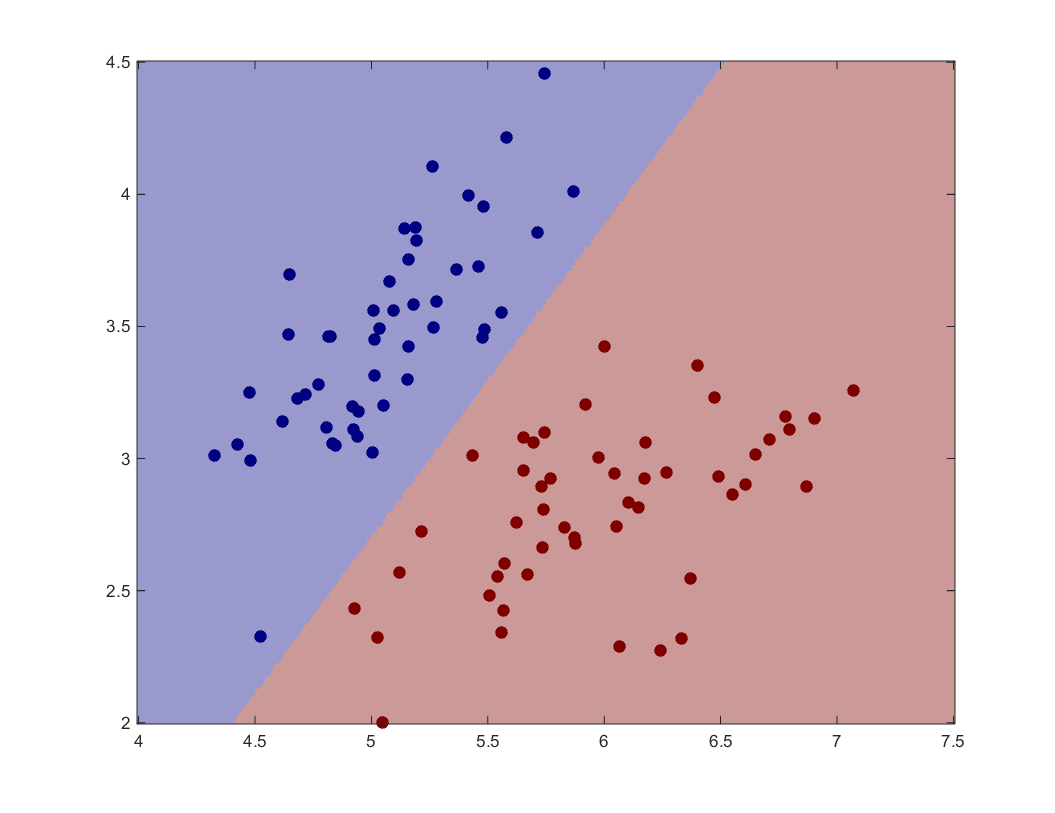
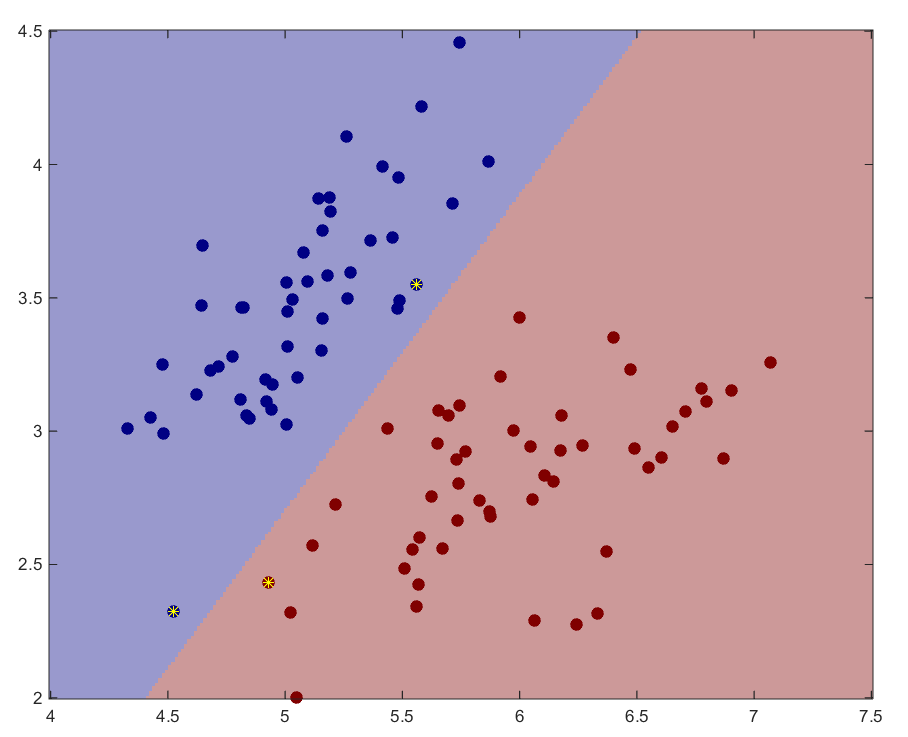
more of prob1

diff --git a/Homework4/HW4/prob1.m b/Homework4/HW4/prob1.m
@@ -52,31 +52,18 @@ theta = quadprog(H,f,A,b);
 
 %%
 
-b = theta(1);
-w = theta(2:3);
-result = abs(XA*w + b);
-[newRes Inds] = sort(result);
-supportVecInds = Inds(1:3);
-supportVecs = XA(supportVecInds,:);
-
-%%
-%plots the classification boundary from this
-learnerA=logisticClassify();
-learnerA=setClasses(learnerA, unique(YA));
-learnerA=setWeights(learnerA, theta');
-plotClassify2D(learnerA,XA,YA);
-hold on
-plot(supportVecs(:,1),supportVecs(:,2),'bx');
-
-%%
-
 %{
 We have to change the optimization function to
-min alpha>=0 1/2 sum_{alpha_i...} - sum_{alpha_i}
+min alpha>=0 1/2 sum{alpha_i alpha_j y(i) y(j) K_ij} - sum alpha_i
+
+Details below on what the variables become in order to 
+    compute the quadratic program in this form
 %}
 
-%This will let us construct the H matrix for quadprog
+%this lets us construct the dot product matrix K
 Kmat = XA*XA';
+
+%this constructs the matrix H for the program
 yMat = Yvar*Yvar';
 Hmatrix = yMat.*Kmat;
 
@@ -85,20 +72,29 @@ fVec = -ones(numFeatures,1);
 
 %this is the A matrix, which will also be Aeq
 Amat = Yvar';
+
+%this is the b value for the input
 bVal = 0;
 
 %the lower bound is zero
 LBvec = zeros(numFeatures,1);
 
-%run quadprog
+%run quadprog on dual form finally
 alpha = quadprog(Hmatrix,fVec,[],[],Amat,bVal,LBvec);
 
 %%
 
+%this part verifies the alpha solution and then plots the 
+%       boundary and support vectors
+
+%gets b,w from theta
 bFromTheta = theta(1);
 wFromTheta = theta(2:3);
+
+%due to floating part error, this is just to indicate almost zero
 epsilon = 0.001;
 
+%I find the support vectors here
 %the alphas that are greater than 0 indicate support vectors
 supportVecInds = find(alpha>epsilon);
 supportVecs = XA(supportVecInds,:);
@@ -113,3 +109,11 @@ assert(diffBetweenW < epsilon); %no assertion failed occured, so this is true
 bFromAlpha = mean(supportVecsY-supportVecs*wFromAlpha');
 diffBetweenB = abs(bFromAlpha-bFromTheta);
 assert(diffBetweenB < epsilon); %no assertion fail
+
+%plots the classification boundary finally
+learnerA=logisticClassify();
+learnerA=setClasses(learnerA, unique(YA));
+learnerA=setWeights(learnerA, theta');
+plotClassify2D(learnerA,XA,YA);
+hold on
+plot(supportVecs(:,1),supportVecs(:,2),'y*');

diff --git a/Homework4/HW4/HW4_solution.tex b/Homework4/HW4/HW4_solution.tex
@@ -69,12 +69,12 @@ The w vector was $(6.3572,-5.3693)$\\
 
 \begin{figure}[h]
 \centering
-\includegraphics[width=5 in]{prob1Plot1.png}
-\caption{Class 0 and Class 1 Points with new decision boundary}
+\includegraphics[width=6 in]{prob1Plot1.png}
+\caption{Classification Plot with support vectors starred in yellow}
 \end{figure}
 \newpage
 Here is the code to obtain the previous plot. The details of how I transformed into a version compatible with quadprog are in the comments. 
-\lstinputlisting[firstline=1, lastline=57]{prob1.m}
+\lstinputlisting[firstline=1, lastline=119]{prob1.m}
 
 \newpage
 
